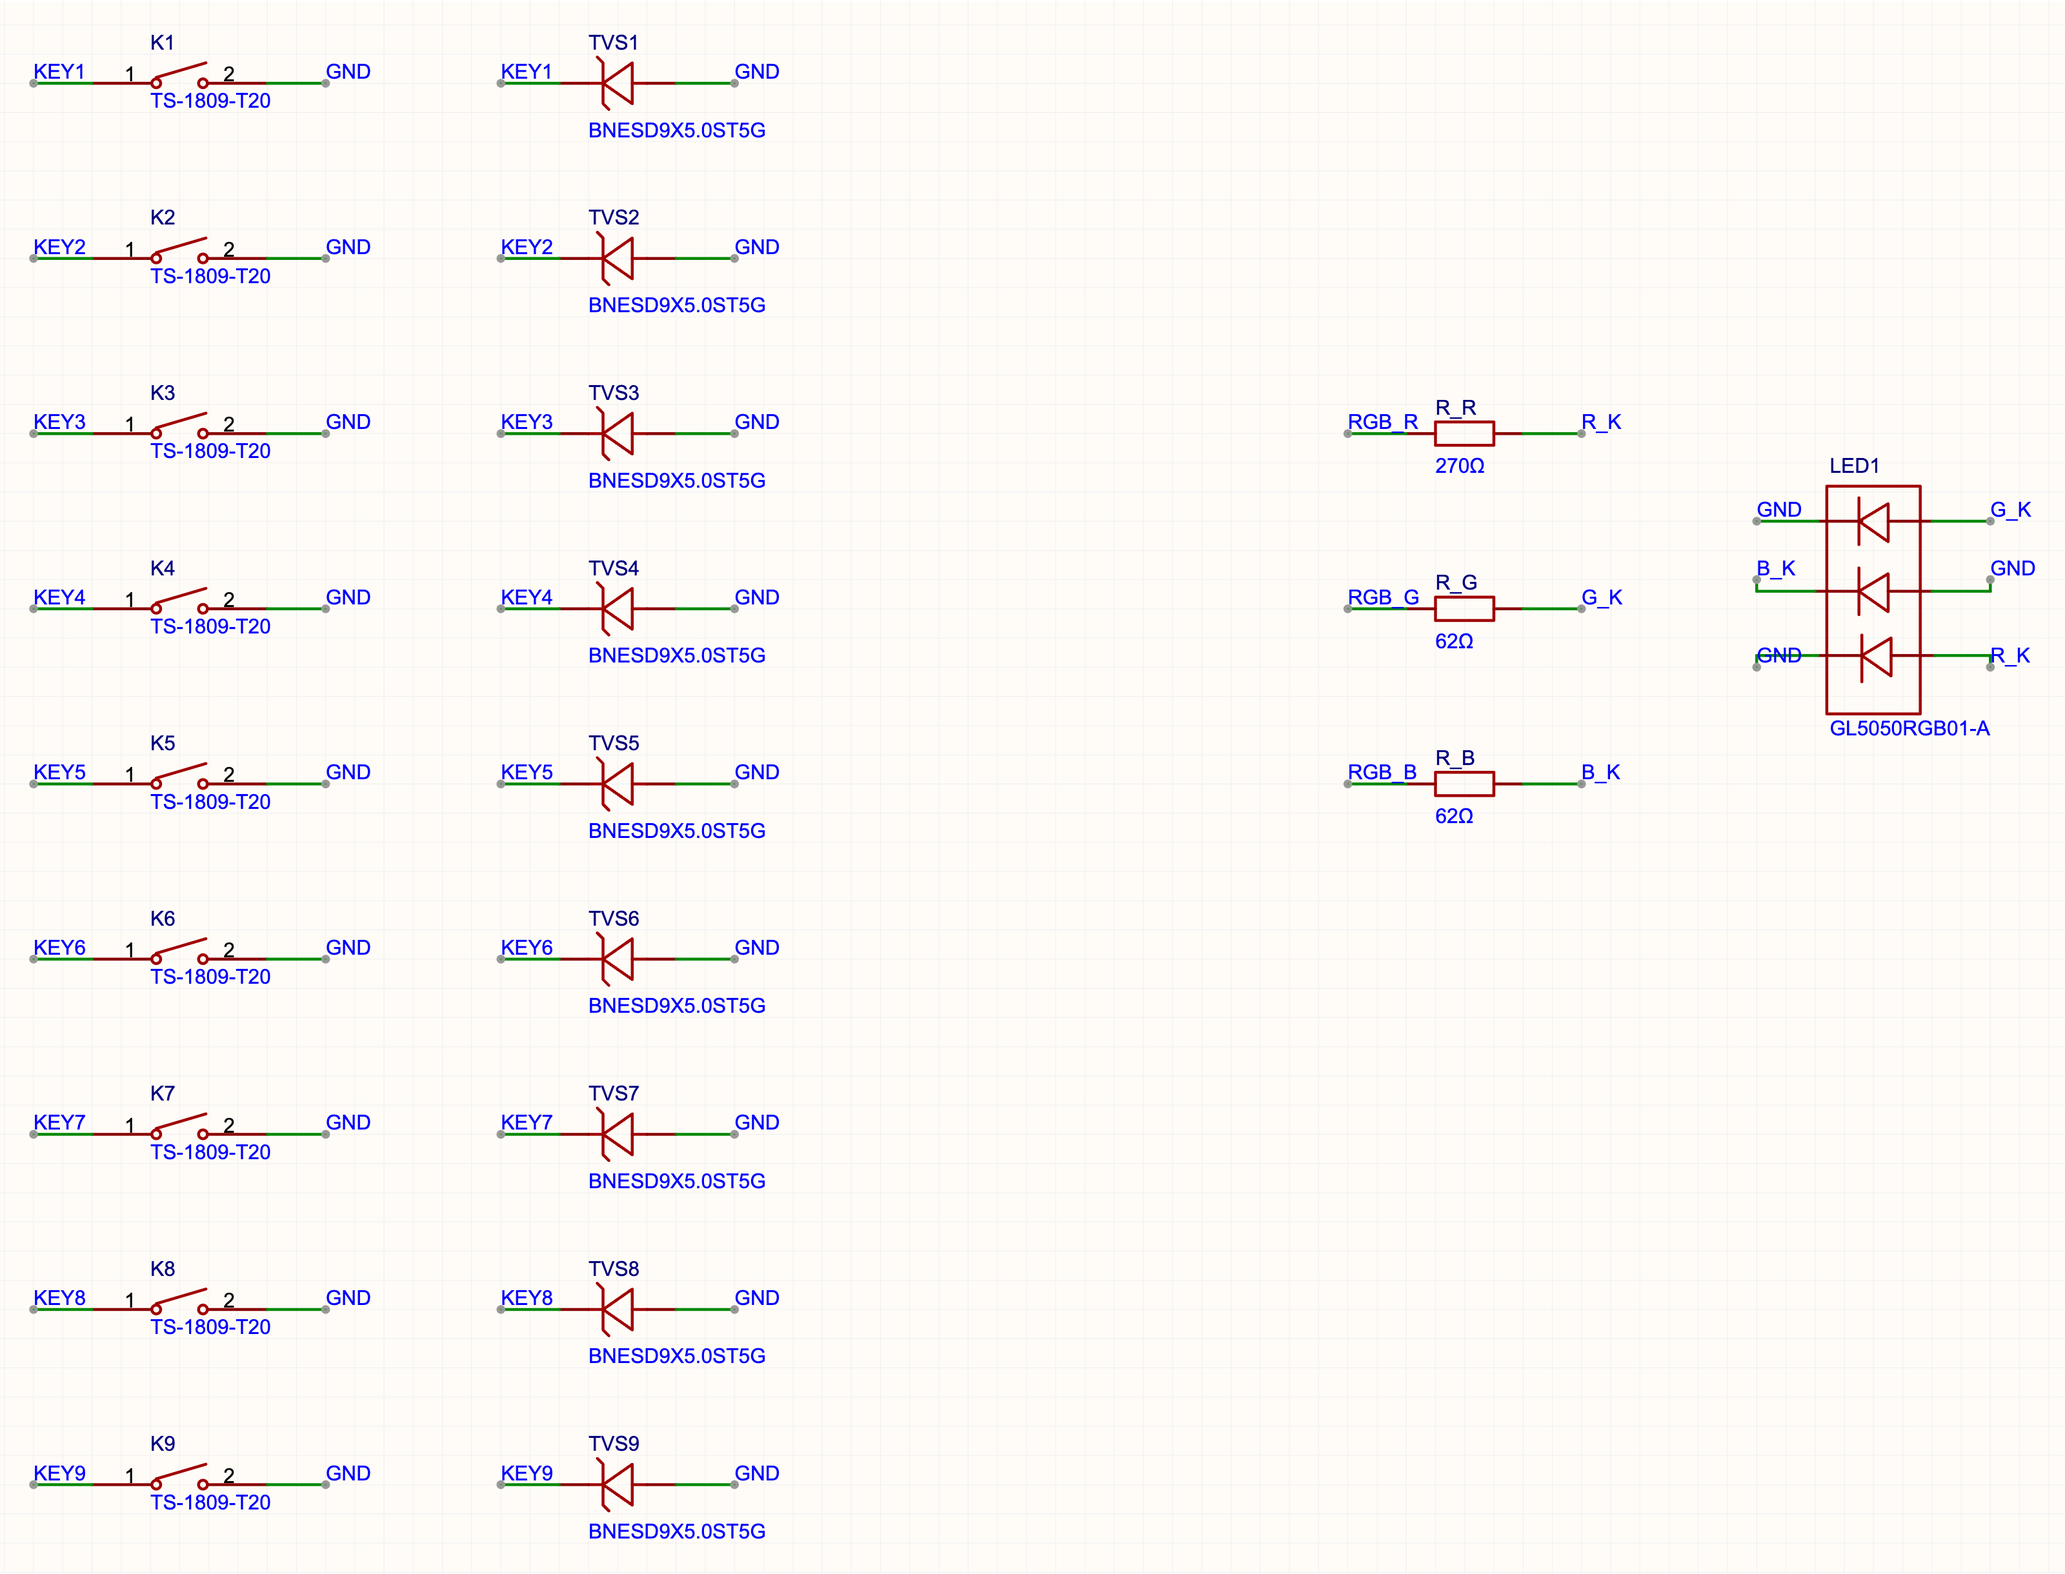
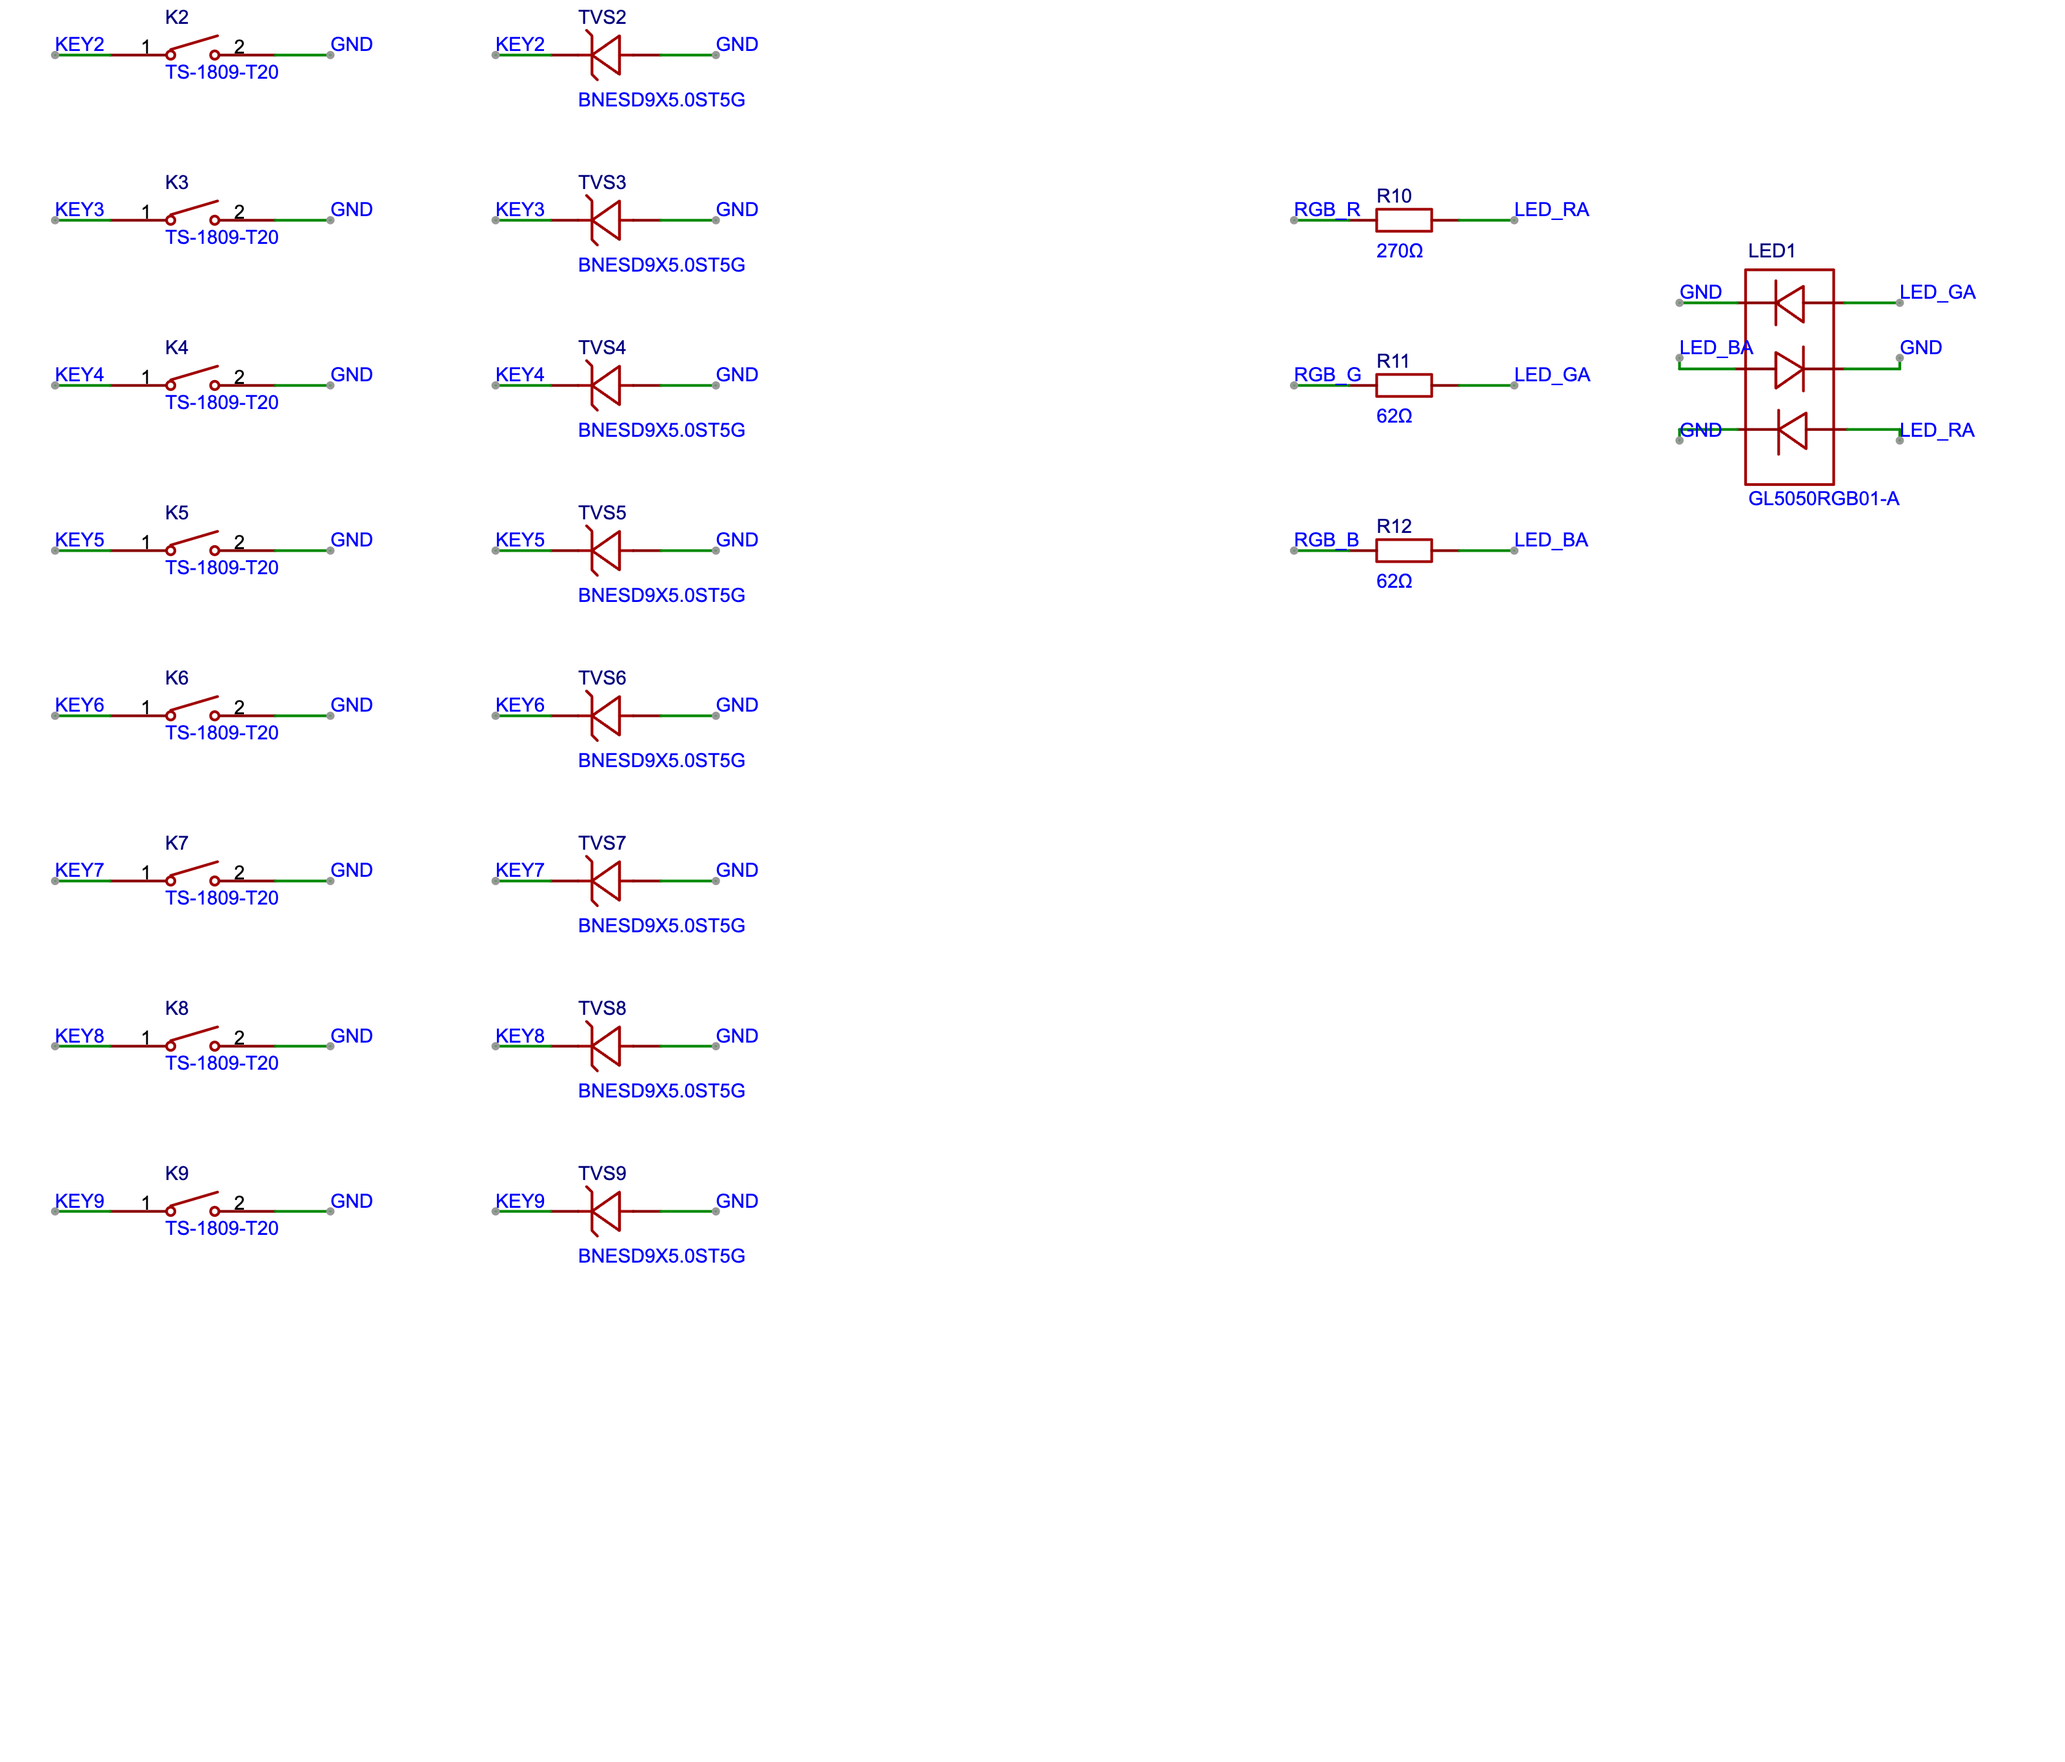
G1 F: 修 LED1 蓝灯反接(库符号中行二极管镜像)+网络名改 LED_RA/GA/BA；导出 hmi_page/hmi_led_zoom；全局 ERC error0/warn4

diff --git a/hw/exports/RUN_LOG.md b/hw/exports/RUN_LOG.md
@@ -77,3 +77,16 @@
 - 接法：pin1/3/5→GND；pin4(R+)→R_R(270Ω)→RGB_R(GPIO38)；pin6(G+)→R_G(62Ω)→RGB_G(GPIO39)；pin2(B+)→R_B(62Ω)→RGB_B(GPIO40)。（注：GPIO 网名沿用主控页 RGB_R/G/B，对应你所说 LED_R/G/B=GPIO38/39/40。）
 - HMI 残余 ERC：NETOBJECTONGRID×4（LED 符号引脚坐标非栅格 ±19/21 所致，标签已对齐栅格；属库符号栅格问题，非电气）。
 - 导出 hmi_page.png。
+
+## 2026-11-18 F 插队修复（LED1 蓝灯反接）— 完成
+- 症状：人工读图发现 LED1 中间那路（蓝）二极管阴极接 B_K、阳极接 GND，蓝灯反接。
+- 网表证据（修复前，GL5050RGB01-A / C51933351）：LED1.1=GND, .2=B_K, .3=GND, .4=R_K, .5=GND, .6=G_K；R10(270Ω).1=RGB_R/.2=R_K，R11(62Ω).1=RGB_G/.2=G_K，R12(62Ω).1=RGB_B/.2=B_K。
+- 库符号引脚图形位置（符号本地坐标，10mil/0.01in，y 上为正）：pin1 左(-19,30)、pin2 左(-20,6)、pin3 左(-19,-16)、pin6 右(20,30)、pin5 右(20,6)、pin4 右(21,-16)。三只二极管按行绘制：上行 pin1–pin6、中行 pin2–pin5、下行 pin3–pin4。
+- 根因：库符号（project 库 2fab92e94ff31362）**中行二极管方向画反**——阴极在 pin2(B+) 侧、阳极在 pin5(G−/GND) 侧；而按规格书 p.2，pin1/3/5=阴极(−)、pin2/4/6=阳极(+)。上/下行方向本正确，仅中行反。
+- 修复：翻转符号中行二极管图形（POLY e14/e15 关于 x=0 镜像：阴极由左(pin2)改到右(pin5=GND)，阳极由右(pin5)改到左(pin2=B+)），即蓝灯正向。仅改符号图形，引脚号与网络不变，电气/网表不受影响。
+- 按规格书 p.2 以引脚号为准复核：pin1/3/5→GND；pin4→R10→RGB_R；pin6→R11→RGB_G；pin2→R12→RGB_B —— 原接线即符合，无需改引脚。
+- 网络名 R_K/G_K/B_K → LED_RA/LED_GA/LED_BA（阳极侧网）。
+- 修复后网表证据：LED1.1=GND, .2=LED_BA, .3=GND, .4=LED_RA, .5=GND, .6=LED_GA；R10.1=RGB_R/.2=LED_RA；R11.1=RGB_G/.2=LED_GA；R12.1=RGB_B/.2=LED_BA。
+- 全局 ERC：error 0 / warn 4（均 NETOBJECTONGRID，LED 引脚非 10 栅格；与修复前基线一致，未新增错误）。
+- 导出 hmi_page.png(3200×2731)、hmi_led_zoom.png(1600×987，框住 LED1+R10/R11/R12)。
+

diff --git a/hw/exports/REVIEW_NOTES.md b/hw/exports/REVIEW_NOTES.md
@@ -48,3 +48,10 @@
 | U0TXD | 43 | 37 | U0TXD | | U0RXD | 44 | 36 | U0RXD |
 - 禁止区 GPIO3 / 26–37 / 45 / 46：网表中**无任何连接**（NC），确认符合 §3.2。
 - 位号全局唯一：61 个器件无重复；R_R/R_G/R_B 已改为 R10/R11/R12。
+
+## 阶段F｜LED1 蓝灯反接修复（2026-11-18）
+- 库符号 GL5050RGB01-A（project 库 2fab92e94ff31362）**中行（蓝）二极管图形方向画反**：阴极在 pin2(B+) 侧、阳极在 pin5(G−/GND) 侧，与规格书 p.2 极性（pin1/3/5=阴极、pin2/4/6=阳极）不符。
+- 已 关于 x=0 镜像翻转该二极管图形修正。仅改图形，引脚号/网络不变；上(绿)、下(红)两只方向本正确。
+- 引脚号→网络经网表复核：1/3/5=GND；4→R10(270Ω)→RGB_R；6→R11(62Ω)→RGB_G；2→R12(62Ω)→RGB_B。原接线即符合规格书，无需改引脚。
+- 网络名 R_K/G_K/B_K 改为 LED_RA/LED_GA/LED_BA（阳极侧）。
+- 提示：此符号把蓝灯阴极画在 pin5(G− 脚)、绿灯阴极画在 pin1(B− 脚)，因 pin1/3/5 同为 GND，电气无差；若要“图形与脚号逐一对齐”，可后续重画为三只同色二极管（蓝 1-2、绿 5-6、红 3-4），不阻塞本阶段。
